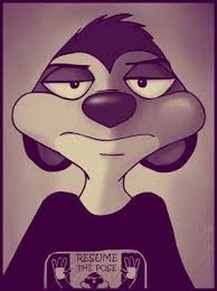
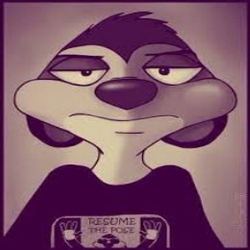
maybe resize 250 jimp

diff --git a/controllers/users/updateAvatar.js b/controllers/users/updateAvatar.js
@@ -9,18 +9,19 @@ const updateAvatar = async (req, res) => {
   const { _id: id } = req.user;
   const imageName = `${id}_${originalname}`;
 
-  //   Jimp.read(tempUpload, (err, image) => {
-  //     if (err) throw err;
-  //     image
-  //       .resize(100, 100) // resize
-  //       .write(tempUpload); // save
-  //   });
-
   try {
     const resultUpload = path.join(avatarDir, imageName);
 
     await fs.rename(tempUpload, resultUpload);
+
+    Jimp.read(resultUpload, (err, image) => {
+      if (err) throw err;
+      image
+        .resize(250, 250) // resize
+        .write(resultUpload); // save
+    });
     const avatarURL = path.join('public', 'avatars', imageName);
+
     await User.findByIdAndUpdate(id, { avatarURL });
     res.json({
       avatarURL,
